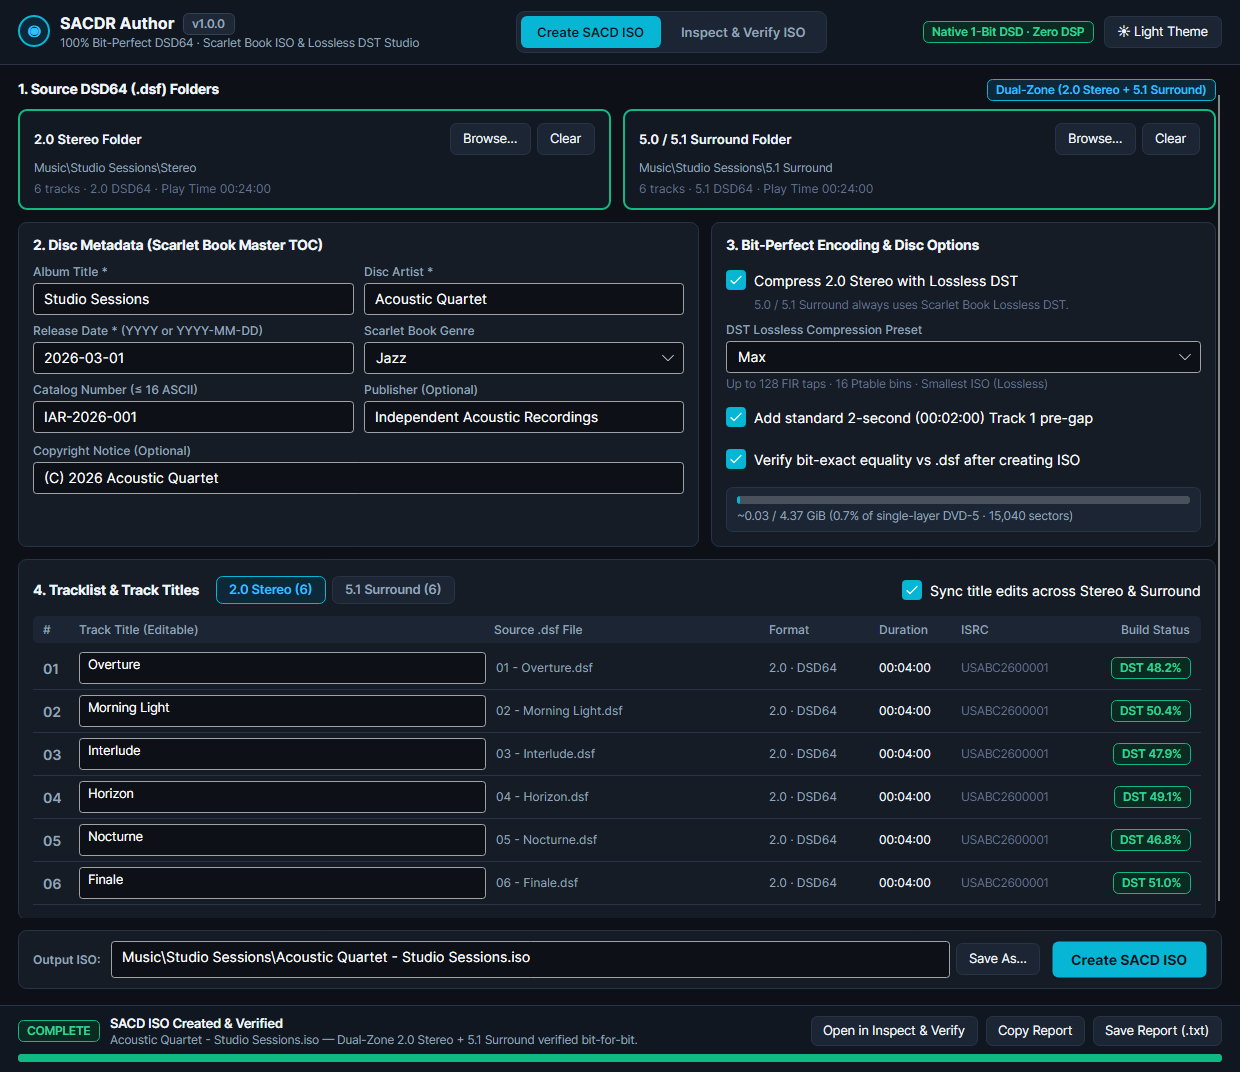
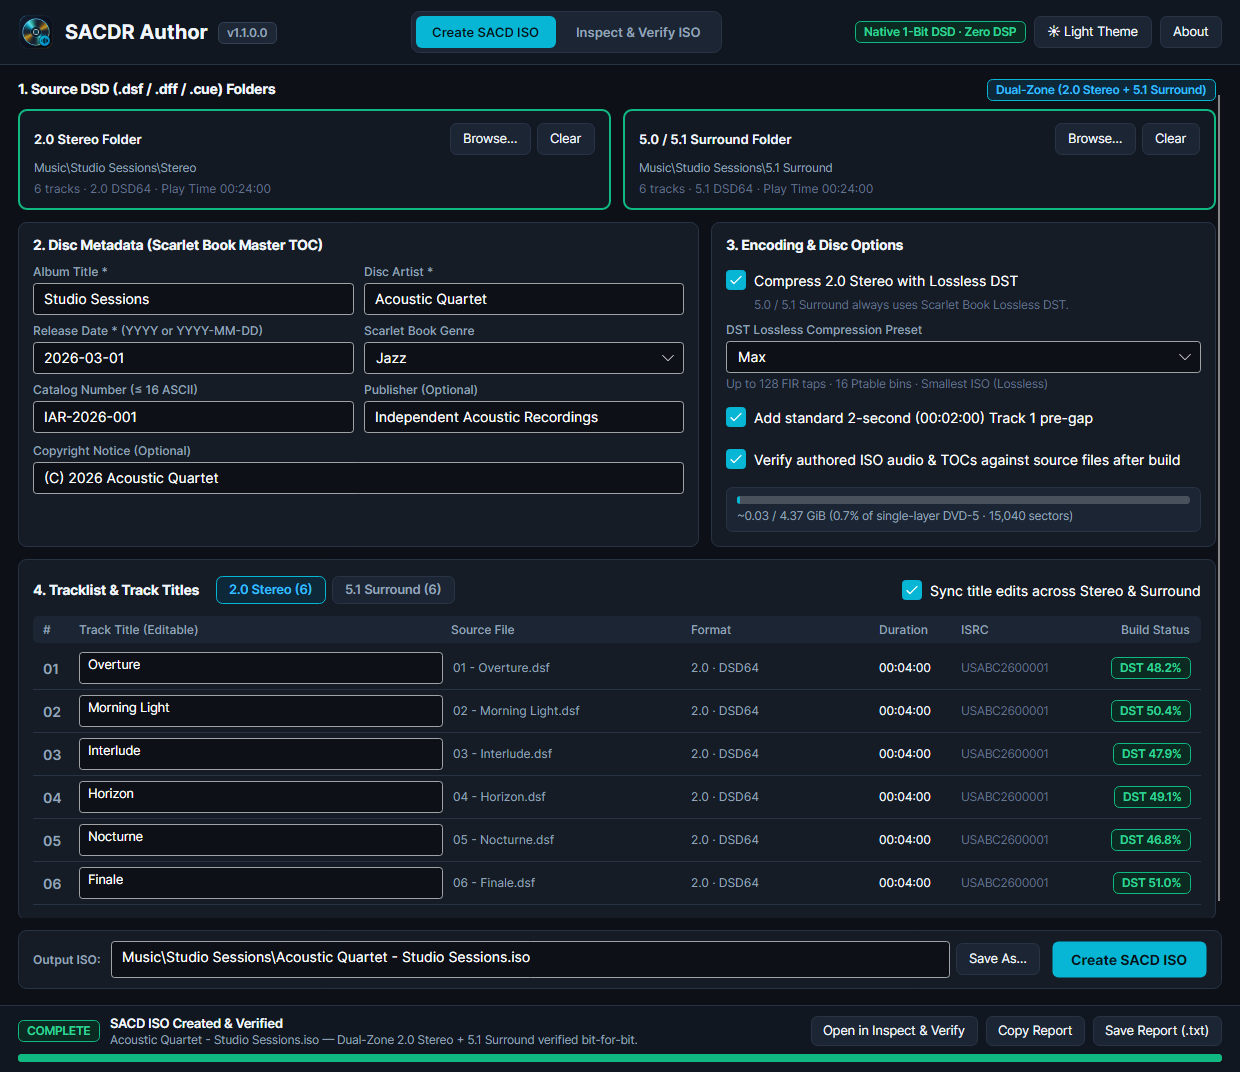
Update public documentation

diff --git a/README.md b/README.md
@@ -5,7 +5,7 @@
 
 **Bring your digital DSD collection to your living-room universal SACD-R player.**
 
-**SACDR Author** creates bit-perfect **SACD-R `.iso` disc images** from your `.dsf` albums—ready to burn onto standard DVD media and play on compatible universal SACD-R players, as well as music servers and desktop DSD players.
+**SACDR Author** creates bit-perfect **SACD-R `.iso` disc images** from your `.dsf` and `.dff` albums (including single-file `.dff`/`.dsf` + `.cue` images)—ready to burn onto standard DVD media and play on compatible universal SACD-R players, as well as music servers and desktop DSD players.
 
 Available as a self-contained desktop app and command-line tool for **Windows, macOS, and Linux**.
 
@@ -13,8 +13,8 @@ Available as a self-contained desktop app and command-line tool for **Windows, m
 
 ## Highlights
 
-- **Effortless From Folder to Disc** — Drag in your `.dsf` album folder, review the auto-filled album and track titles, and click **Create SACD ISO**. No cue sheets, authoring scripts, or legacy studio tools needed.
-- **100% Bit-Perfect Native DSD** — Zero PCM conversion, resampling, or signal processing. Built-in verification checks the finished `.iso` to confirm every audio sample matches your source `.dsf` files bit-for-bit.
+- **Effortless From Folder to Disc** — Drag in your `.dsf`, `.dff` (uncompressed or lossless DST), or `.cue` album folder, review the auto-filled album and track titles, and click **Create SACD ISO**. Mix formats and DSD rates (`DSD64`–`DSD512`) freely across Stereo and Surround zones.
+- **100% Bit-Perfect Native `DSD64` + Precision `DSD128/256/512 → DSD64` Downsampling** — Native `DSD64` sources pass through 100% untouched with zero DSP. High-rate `DSD128`, `DSD256`, and `DSD512` albums are automatically converted to Scarlet Book `DSD64` using a self-contained 64-bit linear-phase FIR + 5th-order Delta-Sigma Modulator (`> 116 dB` audible SNR, zero external tools), with deterministic verification against your source files.
 - **Bit-Perfect Lossless Compression** — Built-in multi-core lossless audio compression packs full-length `5.1 Surround` and **Dual-Zone** albums onto a standard `4.7 GB` single-layer DVD without losing a single bit of audio quality.
 - **Stereo, 5.1 Surround & Dual-Zone Discs** — Author dedicated `2.0 Stereo` discs, `5.0 / 5.1 Surround` discs, or commercial-style **Dual-Zone** discs carrying both Stereo and Surround mixes on one disc.
 - **Built for Universal SACD-R Players** — Produces `SACD-R` disc images engineered for reliable recognition across compatible universal disc transports *(note: physical `SACD-R` playback on DVD media requires a compatible universal player; standard SACD-only players cannot read DVD media)*.
@@ -31,8 +31,8 @@ Download the latest package for your computer from **[Releases](https://github.c
 | **Windows 10 / 11** (`x64`) | `sacdr-author-vX.Y.Z.B-win-x64.zip` | `sacdr-author-gui.exe` + `sacdr-author-cli.exe` |
 | **macOS 12+** (`M1`–`M5` `ARM64`) | `sacdr-author-vX.Y.Z.B-macos-arm64.zip` | `SACDR Author.app` + `sacdr-author-cli` |
 | **macOS 12+** (`x64`) | `sacdr-author-vX.Y.Z.B-macos-x64.zip` | `SACDR Author.app` + `sacdr-author-cli` |
-| **Linux** (`x64`) | `sacdr-author-vX.Y.Z.B-linux-x64.tar.gz` | `sacdr-author-gui` + `sacdr-author-cli` |
-| **Linux** (`ARM64`) | `sacdr-author-vX.Y.Z.B-linux-arm64.tar.gz` | `sacdr-author-gui` + `sacdr-author-cli` |
+| **Linux** (`x64`) | `sacdr-author-vX.Y.Z.B-linux-x64.tar.gz` | `sacdr-author-gui` + `sacdr-author-cli` + desktop icon/launcher |
+| **Linux** (`ARM64`) | `sacdr-author-vX.Y.Z.B-linux-arm64.tar.gz` | `sacdr-author-gui` + `sacdr-author-cli` + desktop icon/launcher |
 
 ### Windows
 1. Extract **`sacdr-author-vX.Y.Z.B-win-x64.zip`** to any folder.
@@ -58,6 +58,7 @@ Download the latest package for your computer from **[Releases](https://github.c
    cd sacdr-author-v*-linux-x64
    ./sacdr-author-gui
    ```
+   *(Optional desktop launcher: update the `Exec=` path in `sacdr-author.desktop`, copy `sacdr-author.png` to `~/.local/share/icons/hicolor/256x256/apps/`, and copy `sacdr-author.desktop` to `~/.local/share/applications/`.)*
    *(On minimal installations without X11/font packages, install `libx11-6 libice6 libsm6 libfontconfig1` on Debian/Ubuntu or `libX11 libICE libSM fontconfig` on Fedora.)*
 
 ---
@@ -65,8 +66,8 @@ Download the latest package for your computer from **[Releases](https://github.c
 ## Quick Start
 
 ### Desktop App
-1. **Drop your `.dsf` folder(s)** — Add a **2.0 Stereo** folder, a **5.0 / 5.1 Surround** folder, or **both** to build a Dual-Zone disc.
-2. **Review metadata & compression** — Album, artist, year, genre, and track titles populate automatically from your `.dsf` files. Enable lossless compression when you want a large album to fit on a single-layer `4.7 GB` DVD.
+1. **Drop your DSD folder(s)** — Add a **2.0 Stereo** folder, a **5.0 / 5.1 Surround** folder, or **both** to build a Dual-Zone disc (`.dsf`, `.dff`, or single-file `.dff`/`.dsf` + `.cue`).
+2. **Review metadata & compression** — Album, artist, year, genre, catalog number, and track titles populate automatically from your `ID3v2` / `DIIN` tags or `.cue` sheet. Enable lossless compression when you want a large album to fit on a single-layer `4.7 GB` DVD.
 3. **Create your `.iso`** — Click **Create SACD ISO** (and optionally verify bit-for-bit integrity automatically).
 4. **Burn & play** — Burn the `.iso` as a **disc image** onto a quality `DVD-R` or `DVD+R` (`4x`–`8x` speed) with any standard disc-burning utility and play it in your compatible universal `SACD-R` player.
 

diff --git a/CHANGELOG.md b/CHANGELOG.md
@@ -1,5 +1,13 @@
 # Changelog
 
+## [1.1.0] - 2026-11-03
+
+- **`DSD128` / `DSD256` / `DSD512` → `DSD64` Downsampling** — Built-in, zero-dependency 64-bit linear-phase FIR + 5th-order Scarlet Book Delta-Sigma Modulator automatically converts `DSD128` (`5.64 MHz`), `DSD256` (`11.29 MHz`), and `DSD512` (`22.58 MHz`) tracks across `.dsf`, `.dff` (`DSD` & `DST`), and `.cue` inputs to hardware-playable `DSD64` (`2.82 MHz`), while keeping native `DSD64` sources 100% bit-perfect with zero DSP.
+- **`.dff` (`DSDIFF`) Support** — Native authoring and verification of `.dff` files, supporting both uncompressed `DSD` and lossless `DST`-compressed streams (including commercial Philips/Sony `DST` bitstreams), automatic channel-order normalization, and metadata extraction from embedded `ID3` and `DIIN` chunks.
+- **`.cue` Sheet Support** — Direct authoring and verification of single-file `.dff`/`.dsf` album images + `.cue` (exact `75 fps` frame slicing) as well as multi-file `.cue` tracklists (`TITLE`, `PERFORMER`, `ISRC`, `CATALOG`, `REM DATE`, `REM GENRE`).
+- **Transparent DSP Mode Indicator & Deterministic Verification** — Contextual studio header badge (`Native 1-Bit DSD · Zero DSP`, `SDM Downsample`, and per-zone mixed Hybrid indicators), per-track format badges (`DSD256 → DSD64`), automatic post-build verification enabled by default, **About & License** dialog, and deterministic `SDM Exact` / `Bit-Exact` source verification.
+- **Native Application Icons Across Windows, macOS & Linux** — Embedded high-DPI application icons in Windows `.exe` binaries, macOS `SACDR Author.app` bundles, and Linux window manager / `.desktop` packages.
+
 ## [1.0.0] - 2026-10-30
 
 - **Desktop App (`sacdr-author-gui`)** — Visual authoring and verification studio with **Dark** and **Light** themes, drag-and-drop `.dsf` folder loading, inline metadata editing, live single-layer `4.7 GB` DVD fit estimation, unified `0–100%` build + verify progress, and one-click update notifications.
